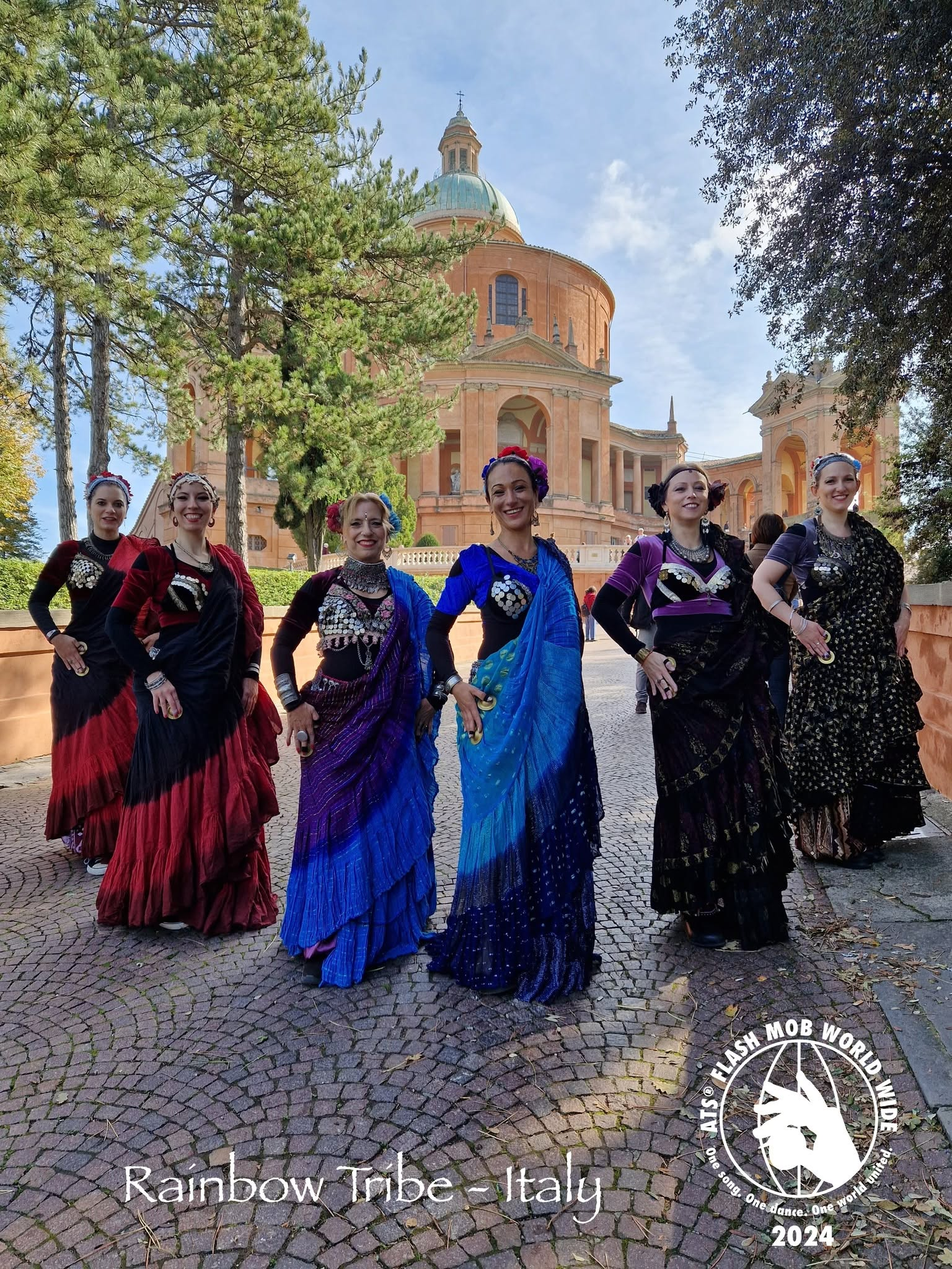
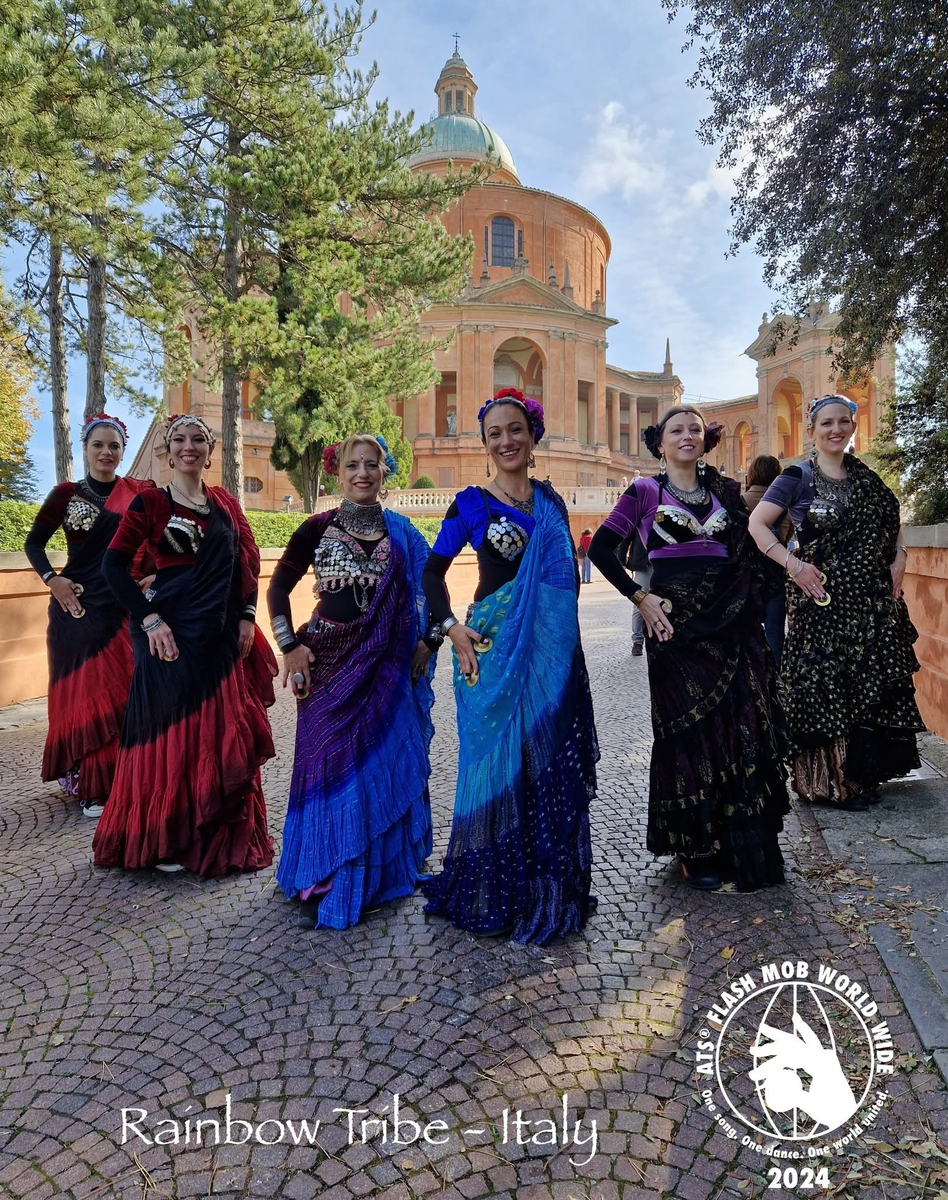
eventi

diff --git a/blog/eventi.html b/blog/eventi.html
@@ -2,5 +2,97 @@
 layout: default
 title: Eventi
 ---
-<br><h1>Under construction</h1>
-<br><br><h3>Presto tutti gli eventi di Shirin Dance</h3>
+<style>
+    .card-flip {
+        height: 730px;
+    }
+
+    @media(max-width: 767px) {
+        .card-flip {
+            flex: 1 1 450px;
+        }
+    }
+
+</style>
+<br><h1>I prossimi appuntamenti</h1>
+<br><br><h3>Tutti gli eventi di Shirin Dance</h3>
+
+<section class="section-block">
+    <div class="cards-row">
+
+        <div class="card-flip">
+            <div class="card-flip-inner">
+                <div class="card-flip-front card-box">
+                    <h2>Barbarossa</h2>
+                    <p>Lo spettacolo al festival medioevale</p>
+                    <img src="/images/news/Eventi/Barbarossa_26.jpeg" style="position: absolute; bottom: 20px; left: 50%; transform: translateX(-50%); border-radius: 12px; width: calc(100% - 40px);">
+
+                </div>
+                <div class="card-flip-back card-box">
+                    <p><strong>Quando:</strong> 19-20 settembre</p>
+                    <p><strong>Orario:</strong> dalle 20</p>
+                    <p><strong>Dove:</strong> Parcheggio via Mazzini
+                    <br>40059 Medicina BO</p>
+                    <br>Anche quest'anno Shirin Dance torna al Barbarossa di Medicina, la grande rievocazione storica che ogni anno trasforma il centro della città in un vero e proprio borgo medievale.
+                    <br>Saremo presenti con le nostre danzatrici al Piazzale degli Eretici, all'interno della festa.<br>
+                    <br><a href="/eventi/barbarossa/" style="color:rgb(80, 80, 180)">Più info</a><br><br>
+                    <div class="mappa-google">
+                        <iframe src="https://www.google.com/maps/embed?pb=!1m18!1m12!1m3!1d2846.8897835077!2d11.639200975164217!3d44.476431898801074!2m3!1f0!2f0!3f0!3m2!1i1024!2i768!4f13.1!3m3!1m2!1s0x477e2798af00e04d%3A0x63a70a8c263254b9!2sParcheggio%20via%20Mazzini!5e0!3m2!1sit!2sit!4v1788107260158!5m2!1sit!2sit" 
+                        width="100%" height="300" style="border:0;"
+                        allowfullscreen="" loading="lazy"
+                        referrerpolicy="no-referrer-when-downgrade">
+                        </iframe>
+                    </div>
+                </div>
+            </div>
+        </div>
+
+        <div class="card-flip">
+            <div class="card-flip-inner">
+                <div class="card-flip-front card-box">
+                    <h2>ATS®/FCBD®</h2>
+                    <p>Flash Mob Worlwide 2026</p>
+                    <img src="/images/eventi/Rainbowtribe.jpg" style="position: absolute; bottom: 50px; left: 50%; transform: translateX(-50%); border-radius: 12px; width: calc(100% - 40px);">
+                </div>
+                <div class="card-flip-back card-box">
+                    <p><strong>Quando:</strong> 10 ottobre</p>
+                    <p><strong>Orario:</strong> mattina</p>
+                    <p><strong>Dove:</strong> Da definire
+                    <br>Provincia di Bologna BO</p>
+                    <br>Anche quest'anno la Rainbow Tribe di Shirin Dance parteciperà all'ATS®/FCBD® Flash Mob Worlwide 2026, registrando una performance per strada tra la gente.
+                    <br>Stiamo ancora scegliendo la location: quale scorcio del nostro territorio sarà la cornice della nostra danza?<br>
+                    <br><a href="/chi-siamo/rainbow-tribe.html" style="color:rgb(80, 80, 180)">Più info</a><br><br>
+                    <div class="mappa-google">
+                        <iframe src="https://www.google.com/maps/embed?pb=!1m18!1m12!1m3!1d2846.044342924811!2d11.340519575165349!3d44.49375819766408!2m3!1f0!2f0!3f0!3m2!1i1024!2i768!4f13.1!3m3!1m2!1s0x477fd49586d65539%3A0x3ec4fc9a3ae6b51e!2sPiazza%20Maggiore!5e0!3m2!1sit!2sit!4v1788107544461!5m2!1sit!2sit" 
+                        width="100%" height="300" style="border:0;"
+                        allowfullscreen="" loading="lazy"
+                        referrerpolicy="no-referrer-when-downgrade">
+                        </iframe>
+                    </div>
+                </div>
+            </div>
+        </div>
+
+    </div>
+
+</section>
+
+
+<section class="archive-section">
+  <h2>Eventi passati</h2>
+
+  <ul class="archive-list">
+    {% for item in site.eventi reversed %}
+      <li>
+        <a href="{{ item.url }}">{{ item.title }}</a>
+        <span class="archive-list-date">
+            {% if item.date_label %}
+                {{ item.date_label }}
+            {% else %}
+                {{ item.date | date: "%d %B %Y" }}
+            {% endif %}
+        </span>
+      </li>
+    {% endfor %}
+  </ul>
+</section>

diff --git a/_eventi/barbarossa.md b/_eventi/barbarossa.md
@@ -1,0 +1,21 @@
+---
+title: "Il Barbarossa: un appuntamento immancabile"
+date: 2026-08-27
+date_label: 19-20 settembre 2026
+subtitle: "Lo spettacolo al festival medioevale di Medicina"
+layout: archive
+---
+
+<div class="media-box media-box--img-sx">
+    <div class="media-box-content">
+        <div class="media-box-image">
+            <img src="/images/news/Eventi/Barbarossa_26.jpeg" alt="Locandina del Barbarossa 2026">
+        </div>
+        <div class="media-box-text" style="text-align: left; margin-left: 30px; font-size: 1.5rem;">
+        <p>Anche quest'anno Shirin Dance torna al Barbarossa di Medicina, la grande rievocazione storica che ogni anno trasforma il centro della città in un vero e proprio borgo medievale, tra dame, cavalieri, giocolieri, musicisti, combattimenti, spettacoli e atmosfere ispirate alla storia e alla leggenda dell'Imperatore Federico I di Svevia, detto il Barbarossa.
+        <br><br>È un appuntamento a cui partecipiamo ormai da anni e che amiamo particolarmente per la sua capacità di creare un contesto in cui danza, spettacolo e immaginario storico possono incontrarsi.
+        <br><br>Sabato 19 e domenica 20 settembre 2026 saremo presenti con le nostre danzatrici al Piazzale degli Eretici, all'interno della festa. Due giornate per vivere insieme l'atmosfera del Barbarossa e portare la danza nel cuore di una manifestazione che coinvolge ogni anno tutta Medicina. Venite a trovarci, a salutarci e a condividere con noi un po' di questa speciale atmosfera medievale!
+        </p>
+        </div>
+    </div>
+</div>
